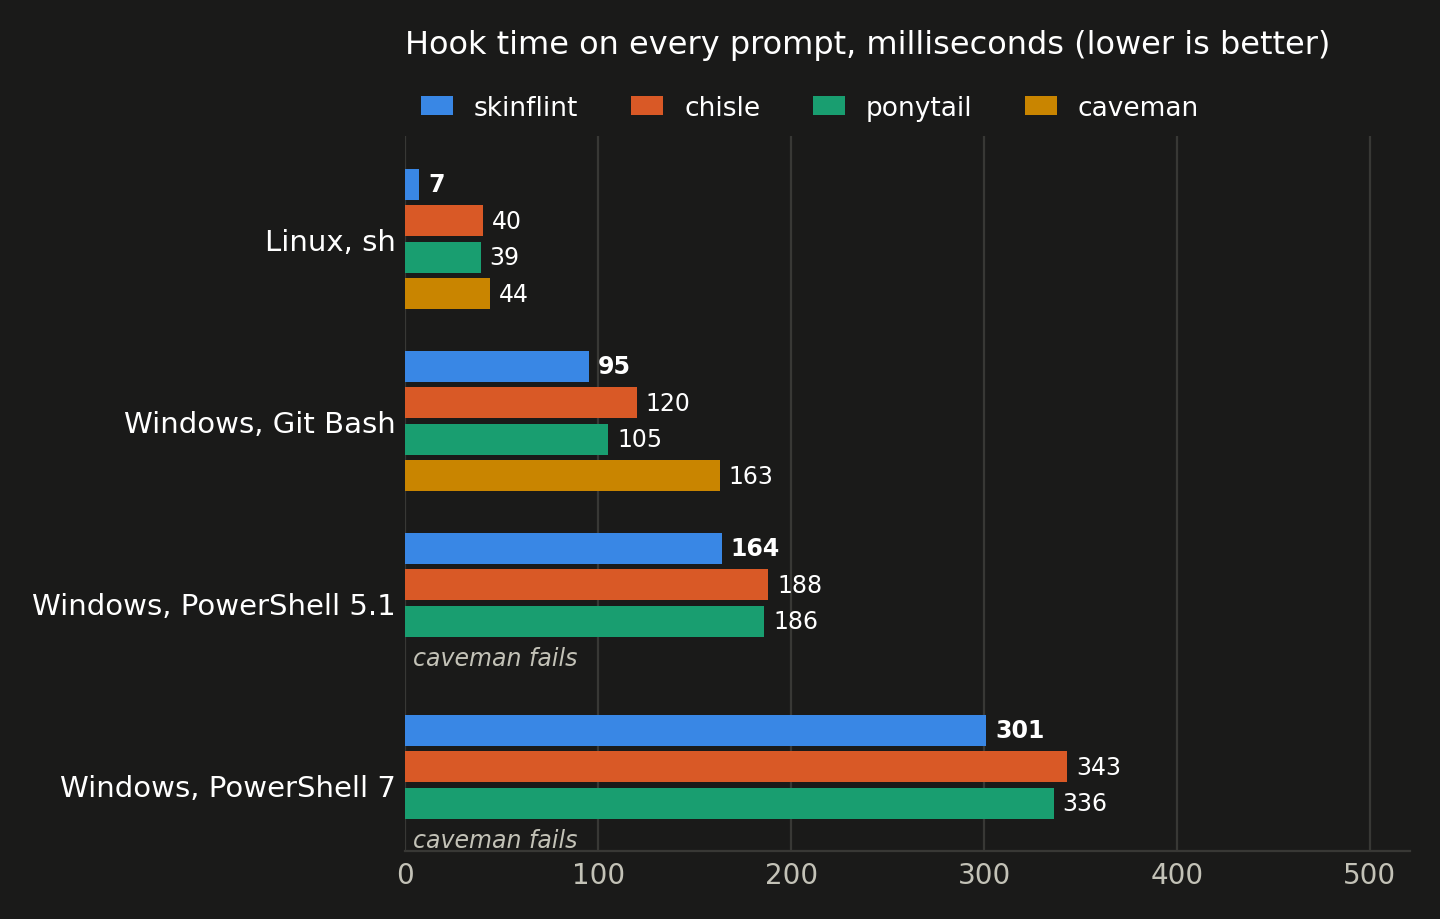
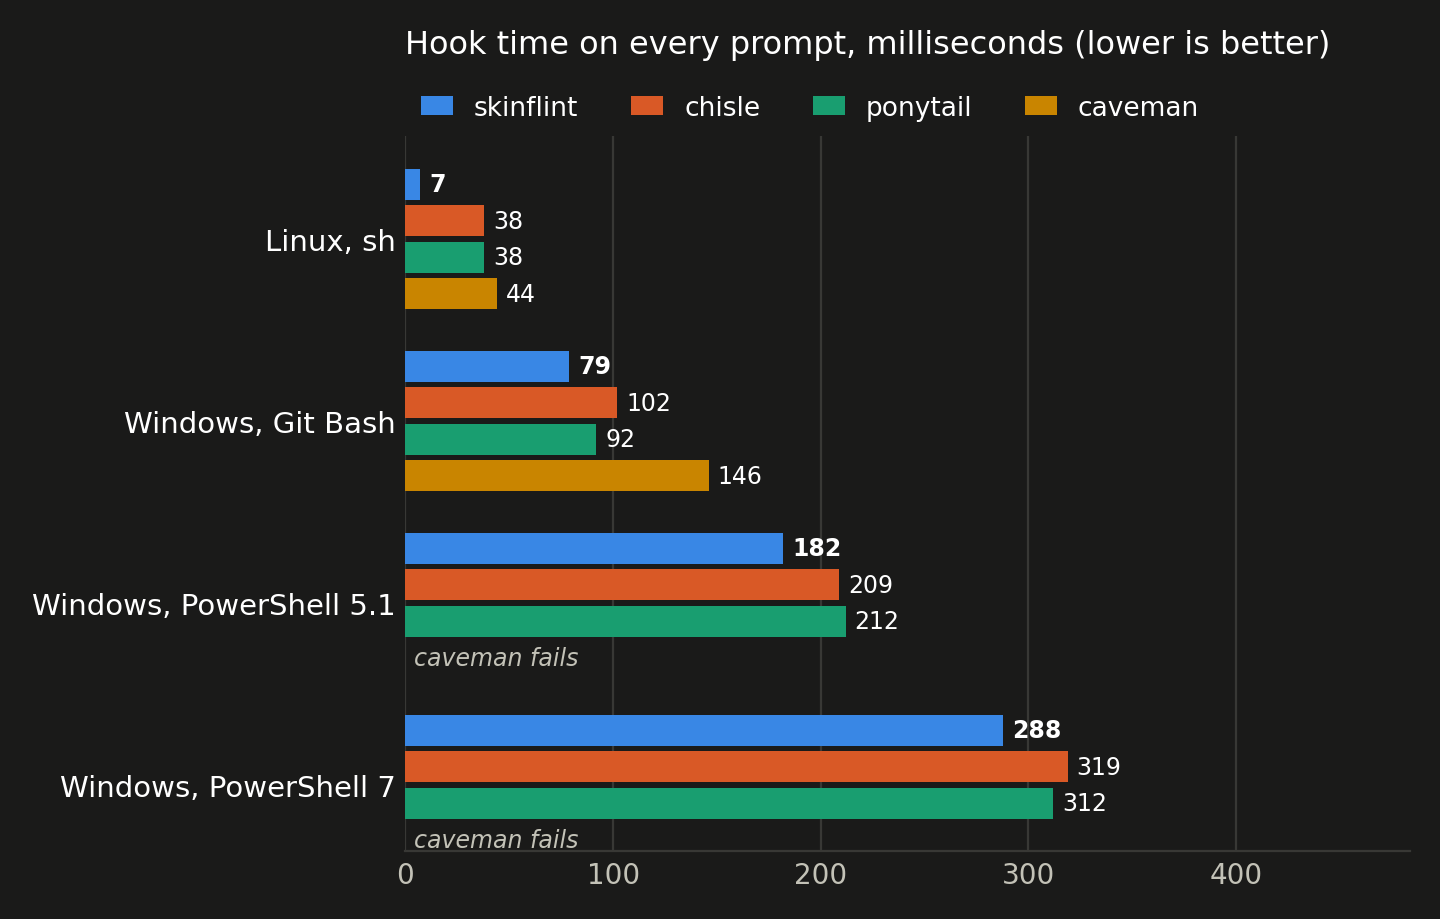
Hook timings for all four plugins re-measured on 2026-10-05; speed chart redrawn

diff --git a/README.md b/README.md
@@ -46,13 +46,13 @@ and `benchmarks/results/` the data they produced.
 | `agentic/` | The tool-using benchmark: `make_fixture.py` generates a small project with one planted problem per task, `run-agentic.sh` runs each task per plugin in a sandbox, `check.py` passes or fails what the run left behind, `analyze-agentic.py` reports cost, tokens, turns and reply size |
 
 Each script's first lines say how to run it. The benchmark numbers in the
-plugin's README come from `results/2026-10-05/`; the tool-output replay and
-the hook timings from `results/2026-09-30/`. The plugin's README shows the header image
+plugin's README and the hook timings come from `results/2026-10-05/`; the
+tool-output replay from `results/2026-09-30/`. The plugin's README shows the header image
 and charts in `assets/` straight from this repository, so that the only image
 the plugin ships is its listing icon. To redraw the charts:
 
 ```sh
-python3 benchmarks/charts.py benchmarks/results/2026-10-05/questions/arms.json assets/charts benchmarks/results/2026-09-30
+python3 benchmarks/charts.py benchmarks/results/2026-10-05/questions/arms.json assets/charts benchmarks/results/2026-10-05
 ```
 
 ## License

diff --git a/benchmarks/results/2026-10-05/speed-windows.md b/benchmarks/results/2026-10-05/speed-windows.md
@@ -1,0 +1,16 @@
+| ms, median of 41 | startup | prompt | subagent | small output | 3000 lines | 30 KB log |
+|---|--:|--:|--:|--:|--:|--:|
+| skinflint, Git Bash | 80 | 79 | 81 | 82 | 102 | 106 |
+| skinflint, PowerShell 5.1 | 183 | 182 | 189 | 187 | 216 | 220 |
+| skinflint, PowerShell 7 | 286 | 288 | 305 | 292 | 334 | 338 |
+| chisle, Git Bash | 197 | 102 | - | 103 | 138 | 134 |
+| chisle, PowerShell 5.1 | 303 | 209 | - | 211 | 248 | 245 |
+| chisle, PowerShell 7 | 411 | 319 | - | 316 | 363 | 361 |
+| ponytail, Git Bash | 94 | 92 | 88 | - | - | - |
+| ponytail, PowerShell 5.1 | 210 | 212 | 208 | - | - | - |
+| ponytail, PowerShell 7 | 310 | 312 | 315 | - | - | - |
+| caveman, Git Bash | 145 | 146 | - | - | - | - |
+| caveman, PowerShell 5.1 | 257! | 263! | - | - | - | - |
+| caveman, PowerShell 7 | 427! | 432! | - | - | - | - |
+
+Ran but printed nothing: ponytail, Git Bash prompt, ponytail, PowerShell 5.1 prompt, ponytail, PowerShell 7 prompt, ponytail, Git Bash subagent, ponytail, PowerShell 5.1 subagent, ponytail, PowerShell 7 subagent

diff --git a/benchmarks/results/2026-10-05/speed-linux.md b/benchmarks/results/2026-10-05/speed-linux.md
@@ -1,0 +1,8 @@
+| ms, median of 41 | startup | prompt | subagent | 30 KB log | 150 KB log | 150 KB JSON |
+|---|--:|--:|--:|--:|--:|--:|
+| skinflint | 10 | 7 | 7 | 10 | 12 | 14 |
+| chisle | 134 | 38 | - | 57 | 58 | 60 |
+| ponytail | 37 | 38 | 32 | - | - | - |
+| caveman | 43 | 44 | - | - | - | - |
+
+Ran but printed nothing: ponytail prompt, ponytail subagent
